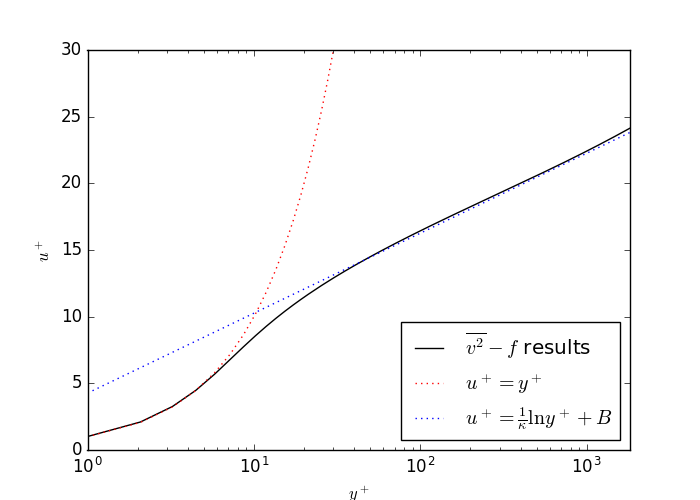
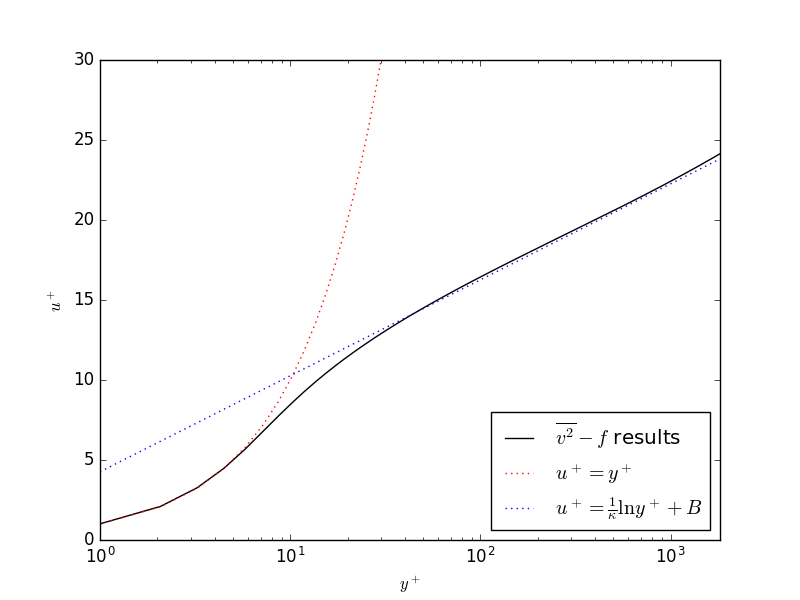
Added results for 5200

diff --git a/doc/turbulence/v2channel.tex b/doc/turbulence/v2channel.tex
@@ -344,7 +344,23 @@ since $f$ is initialized at zero.}
 
 
 %%% Re_tau = 5200 case
+\section{Results at $\mathrm{Re}_{\tau} = 5200$}
 After verifying our code on the $Re_{\tau} = 180$ case, we ran our code at $Re_{\tau} = 5200$, so as to compare it with the DNS results of \cite{Lee}. The results can be found......
+
+Excellent agreement was found for the $U$ profile.  This is a testament to the strength of the $\overline{v^2}-f$ model, especially in the near-wall region.  Good agreement was found for both the inner and outer layer, including the viscous sublayer.
+
+The agreement were not as good for $k$ or $\overline{v^2}$.  This matches what was seen for $Re_{\tau} = 180$ in Durbin's paper \cite{durbin180}, as discussed in the previous section.  The lack of agreement also reflects the nature of the $\overline{v^2}-f$ model, where $U$ is usually the quantitiy of interest, whose model is built upon parameters $k$, $\epsilon$, $\overline{v^2}$ and $f$.  Due to the differences between reality and the model for $U$, the parameters such as $k$ do not have to be precise to give the correct behavior for $U$. Nevertheless, the overall behavior of $k$ and $\overline{v^2}$ is still close to the DNS data.
+
+Similarly, a comparison of the RANS results for $\varepsilon$ with the DNS data shows slight difference, especially near the wall. Nevertheless, the overall behavior is still close to the DNS data.
+
+The RANS results for the $Re_{\tau} = 5200$ case were also compared to the log-law.  The ``universal values'' given by Pope \cite{pope} were not as good as the values derived from DNS by Lee and Moser \cite{Lee}.  These values are $\kappa = 0.384$ and $B = 4.27$.  A comparison of the RANS results with the theoretical log-law is shown in Fig. \ref{fig:loglaw}. This agreement with the values put forth by Lee and Moser is logical, since the RANS $U$ profile closely matches the DNS results.
+
+\begin{figure}
+ \centering
+ \includegraphics[width=\textwidth]{loglaw_5200}
+ \caption{Comparison of the $\mathrm{Re}_{\tau} = 5200$ results with the expected power-law and log-law behavior near the wall. The values of $\kappa = 0.384$ and $B = 4.27$ give good agreement between the log-law and the RANS results.}
+ \label{fig:loglaw}
+\end{figure}
 
 
 \clearpage

diff --git a/postproc/fig_plots.py b/postproc/fig_plots.py
@@ -59,7 +59,7 @@ DNS = vars("../data/init_5200.dat")
 fig, ax = plt.subplots()
 v2f.plot_BL(fig, ax)
 ax.legend(loc='best')
-fig.set_size_inches(7,5, forward=True)
+fig.set_size_inches(8,6, forward=True)
 fig.savefig('../doc/turbulence/figs/loglaw_5200.png')
 plt.show()
 
